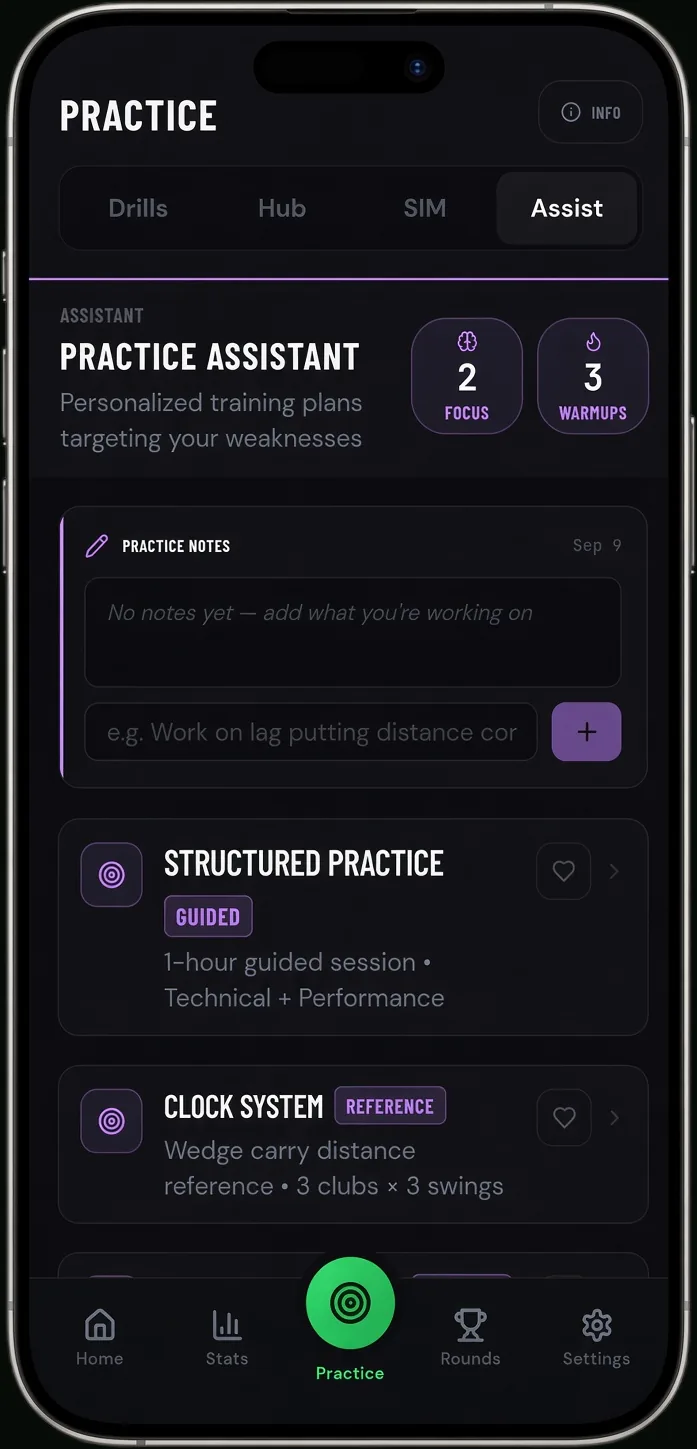
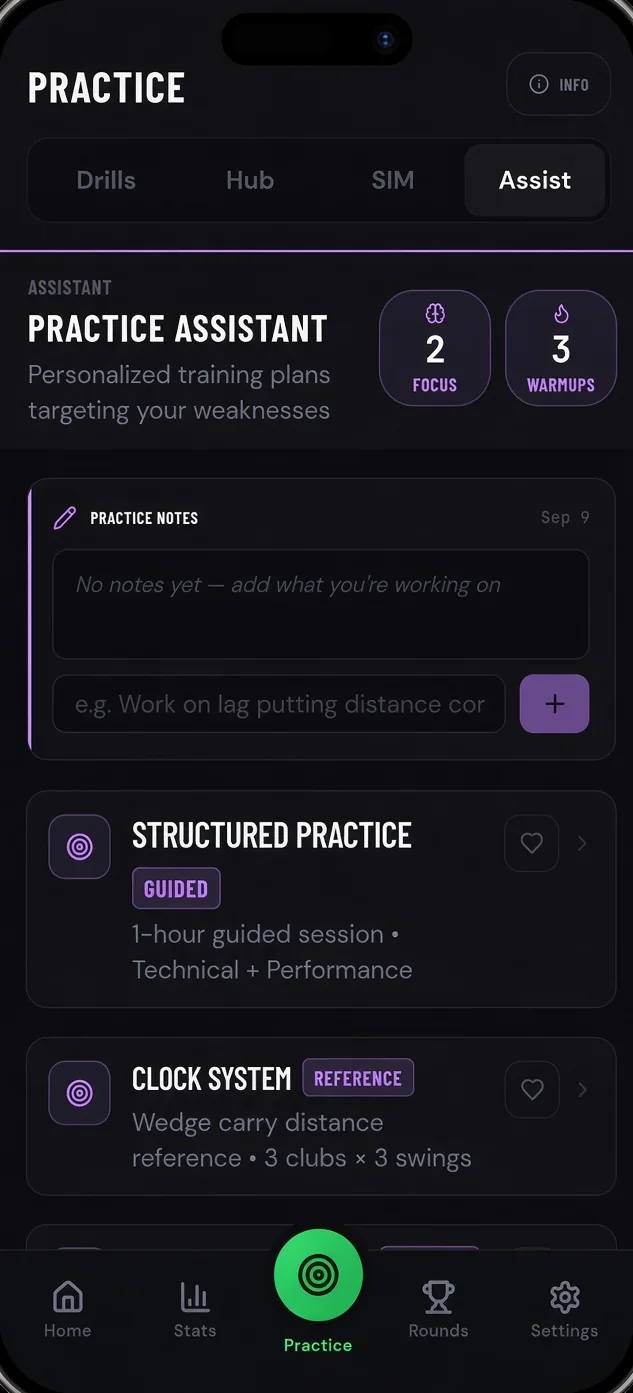
Crop the feature page screenshots to the screen, not the device
The .screenshot container on the feature pages is itself a phone frame: dark
fill, 28px radius, accent border, overflow hidden. Every original shot in
there is a raw screen capture that fills it edge to edge.

The 1.0.11 shots I put in earlier are device mockups, bezel and silver rail
included, so each one rendered as a phone inside a phone and object-fit
contain letterboxed it. All seven are now cropped inside the bezel, 4.6% of
the width and 1.92% of the height, measured off the mockup rather than
guessed, and the width and height attributes follow the new crops.

performance-hub gets its own copy as nextup-1011, because the shared
app-screens/detail/hub-phone2 is the whole device on purpose: the homepage
chapter wants the phone, this page wants only the screen.

diff --git a/features/round-stats.html b/features/round-stats.html
@@ -1480,7 +1480,7 @@
         </div>
         <div class="hero-screenshot">
           <div class="screenshot">
-            <img loading="lazy" decoding="async" src="images/rounds-1011.webp" width="705" height="1494" alt="Scoring Zone hole-by-hole round entry: a par 4 scorecard with approach, putts and up-and-down tracking">
+            <img loading="lazy" decoding="async" src="images/rounds-1011.webp" width="641" height="1436" alt="Scoring Zone hole-by-hole round entry: a par 4 scorecard with approach, putts and up-and-down tracking">
           </div>
         </div>
       </div>
@@ -1609,7 +1609,7 @@
 
         <div class="reveal reveal-delay-4 screenshot-row">
           <div class="screenshot screenshot-inline">
-            <img loading="lazy" decoding="async" src="images/stats-sg-1011.webp" width="665" height="1362" alt="Scoring Zone strokes gained analysis showing performance off the tee, approach, sand, up and down, and putting against a 15 handicap benchmark">
+            <img loading="lazy" decoding="async" src="images/stats-sg-1011.webp" width="603" height="1310" alt="Scoring Zone strokes gained analysis showing performance off the tee, approach, sand, up and down, and putting against a 15 handicap benchmark">
           </div>
         </div>
       </div>

diff --git a/features/putting-drills.html b/features/putting-drills.html
@@ -1647,7 +1647,7 @@
 
           <div class="reveal reveal-delay-2">
             <div class="screenshot screenshot-inline" style="margin: 0 auto;">
-              <img loading="lazy" decoding="async" src="images/putting-test-1011.webp" width="708" height="1490" alt="The Scoring Zone Ultimate Putting Test intro, a 30-35 minute assessment across short, medium and long putts that calculates your Putting Handicap">
+              <img loading="lazy" decoding="async" src="images/putting-test-1011.webp" width="642" height="1432" alt="The Scoring Zone Ultimate Putting Test intro, a 30-35 minute assessment across short, medium and long putts that calculates your Putting Handicap">
             </div>
           </div>
         </div>

diff --git a/features/chipping-drills.html b/features/chipping-drills.html
@@ -1469,7 +1469,7 @@
         </div>
         <div class="hero-screenshot">
           <div class="screenshot">
-            <img loading="lazy" decoding="async" src="images/challenges-1011.webp" width="695" height="1456" alt="The Scoring Zone chipping drill list showing a Chipping Handicap of plus 0.3 and scored challenges including The 10-Yarder and One-Club Wizard">
+            <img loading="lazy" decoding="async" src="images/challenges-1011.webp" width="631" height="1400" alt="The Scoring Zone chipping drill list showing a Chipping Handicap of plus 0.3 and scored challenges including The 10-Yarder and One-Club Wizard">
           </div>
         </div>
       </div>

diff --git a/features/performance-hub.html b/features/performance-hub.html
@@ -1582,7 +1582,7 @@
 
         <div class="reveal reveal-delay-4 screenshot-row">
           <div class="screenshot screenshot-inline">
-            <img loading="lazy" decoding="async" src="../app-screens/detail/hub-phone2.webp" width="667" height="1371" alt="The Scoring Zone Next Up screen recommending the Ultimate Shortgame Test, with the Ultimate Putting Test scoring plus 1.9">
+            <img loading="lazy" decoding="async" src="images/nextup-1011.webp" width="605" height="1319" alt="The Scoring Zone Next Up screen recommending the Ultimate Shortgame Test, with the Ultimate Putting Test scoring plus 1.9">
           </div>
         </div>
       </div>

diff --git a/features/practice-assistant.html b/features/practice-assistant.html
@@ -1473,7 +1473,7 @@
         </div>
         <div class="hero-screenshot">
           <div class="screenshot">
-            <img loading="lazy" decoding="async" src="images/assist-1011.webp" width="697" height="1449" alt="The Scoring Zone Practice Assistant building a personalised plan from your weaknesses, with structured practice and the clock system">
+            <img loading="lazy" decoding="async" src="images/assist-1011.webp" width="633" height="1393" alt="The Scoring Zone Practice Assistant building a personalised plan from your weaknesses, with structured practice and the clock system">
           </div>
         </div>
       </div>

diff --git a/features/sim-lab.html b/features/sim-lab.html
@@ -1474,7 +1474,7 @@
         </div>
         <div class="hero-screenshot">
           <div class="screenshot">
-            <img loading="lazy" decoding="async" src="images/sim-lab-1011.webp" width="704" height="1473" alt="The Scoring Zone SIM Lab simulator test list, including Dial-In 20 and the Pitching Accuracy Ladder">
+            <img loading="lazy" decoding="async" src="images/sim-lab-1011.webp" width="640" height="1417" alt="The Scoring Zone SIM Lab simulator test list, including Dial-In 20 and the Pitching Accuracy Ladder">
           </div>
         </div>
       </div>
